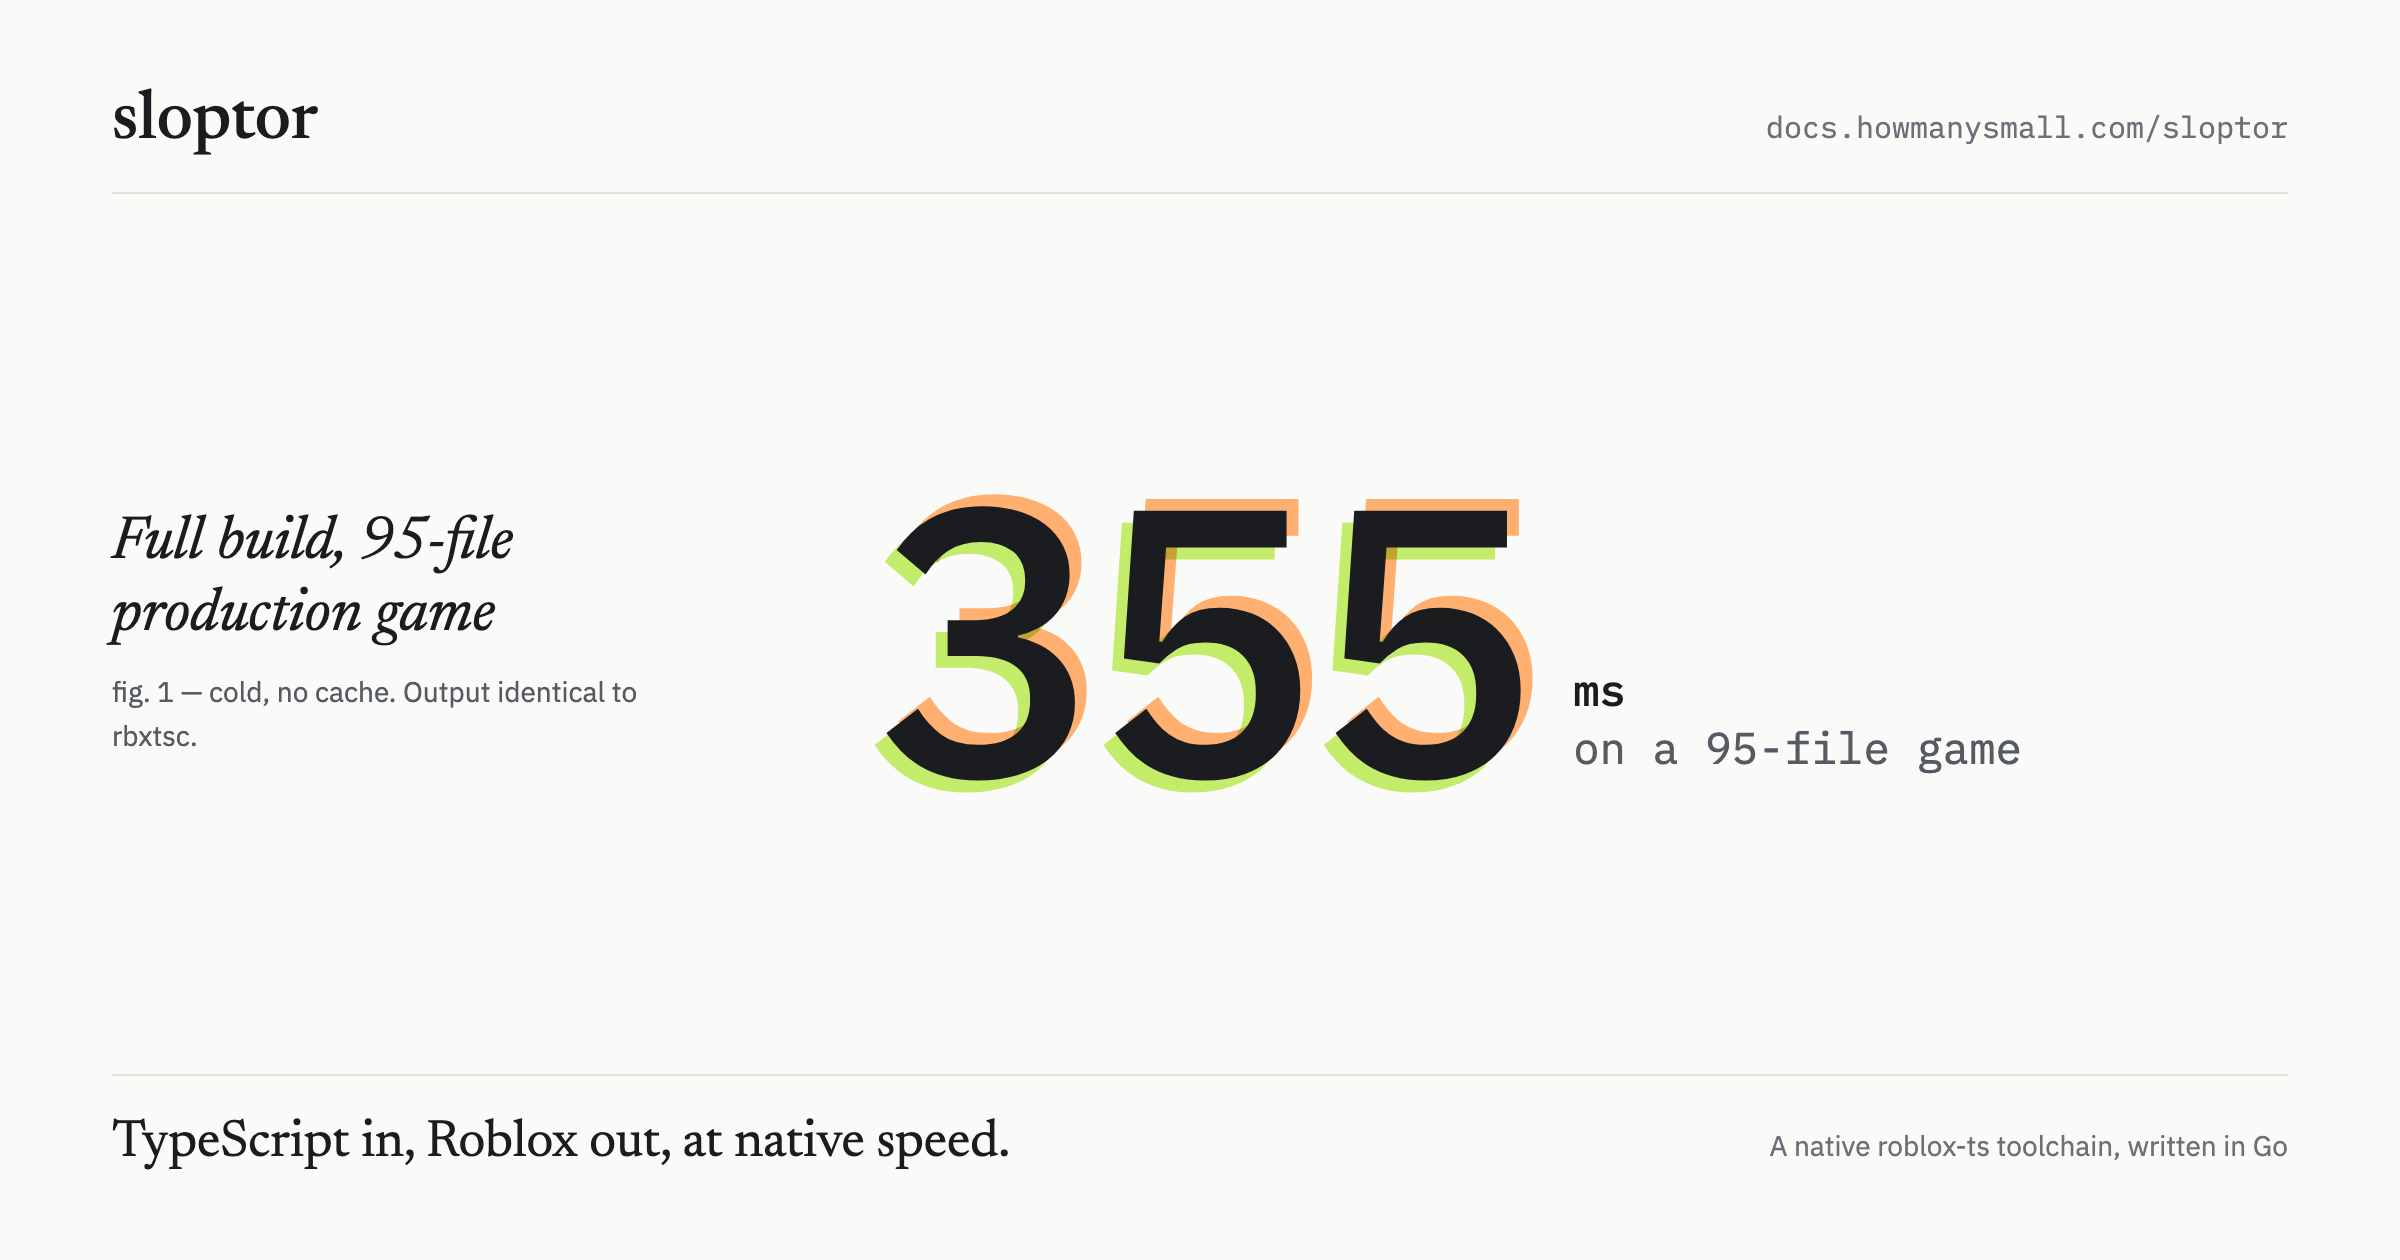
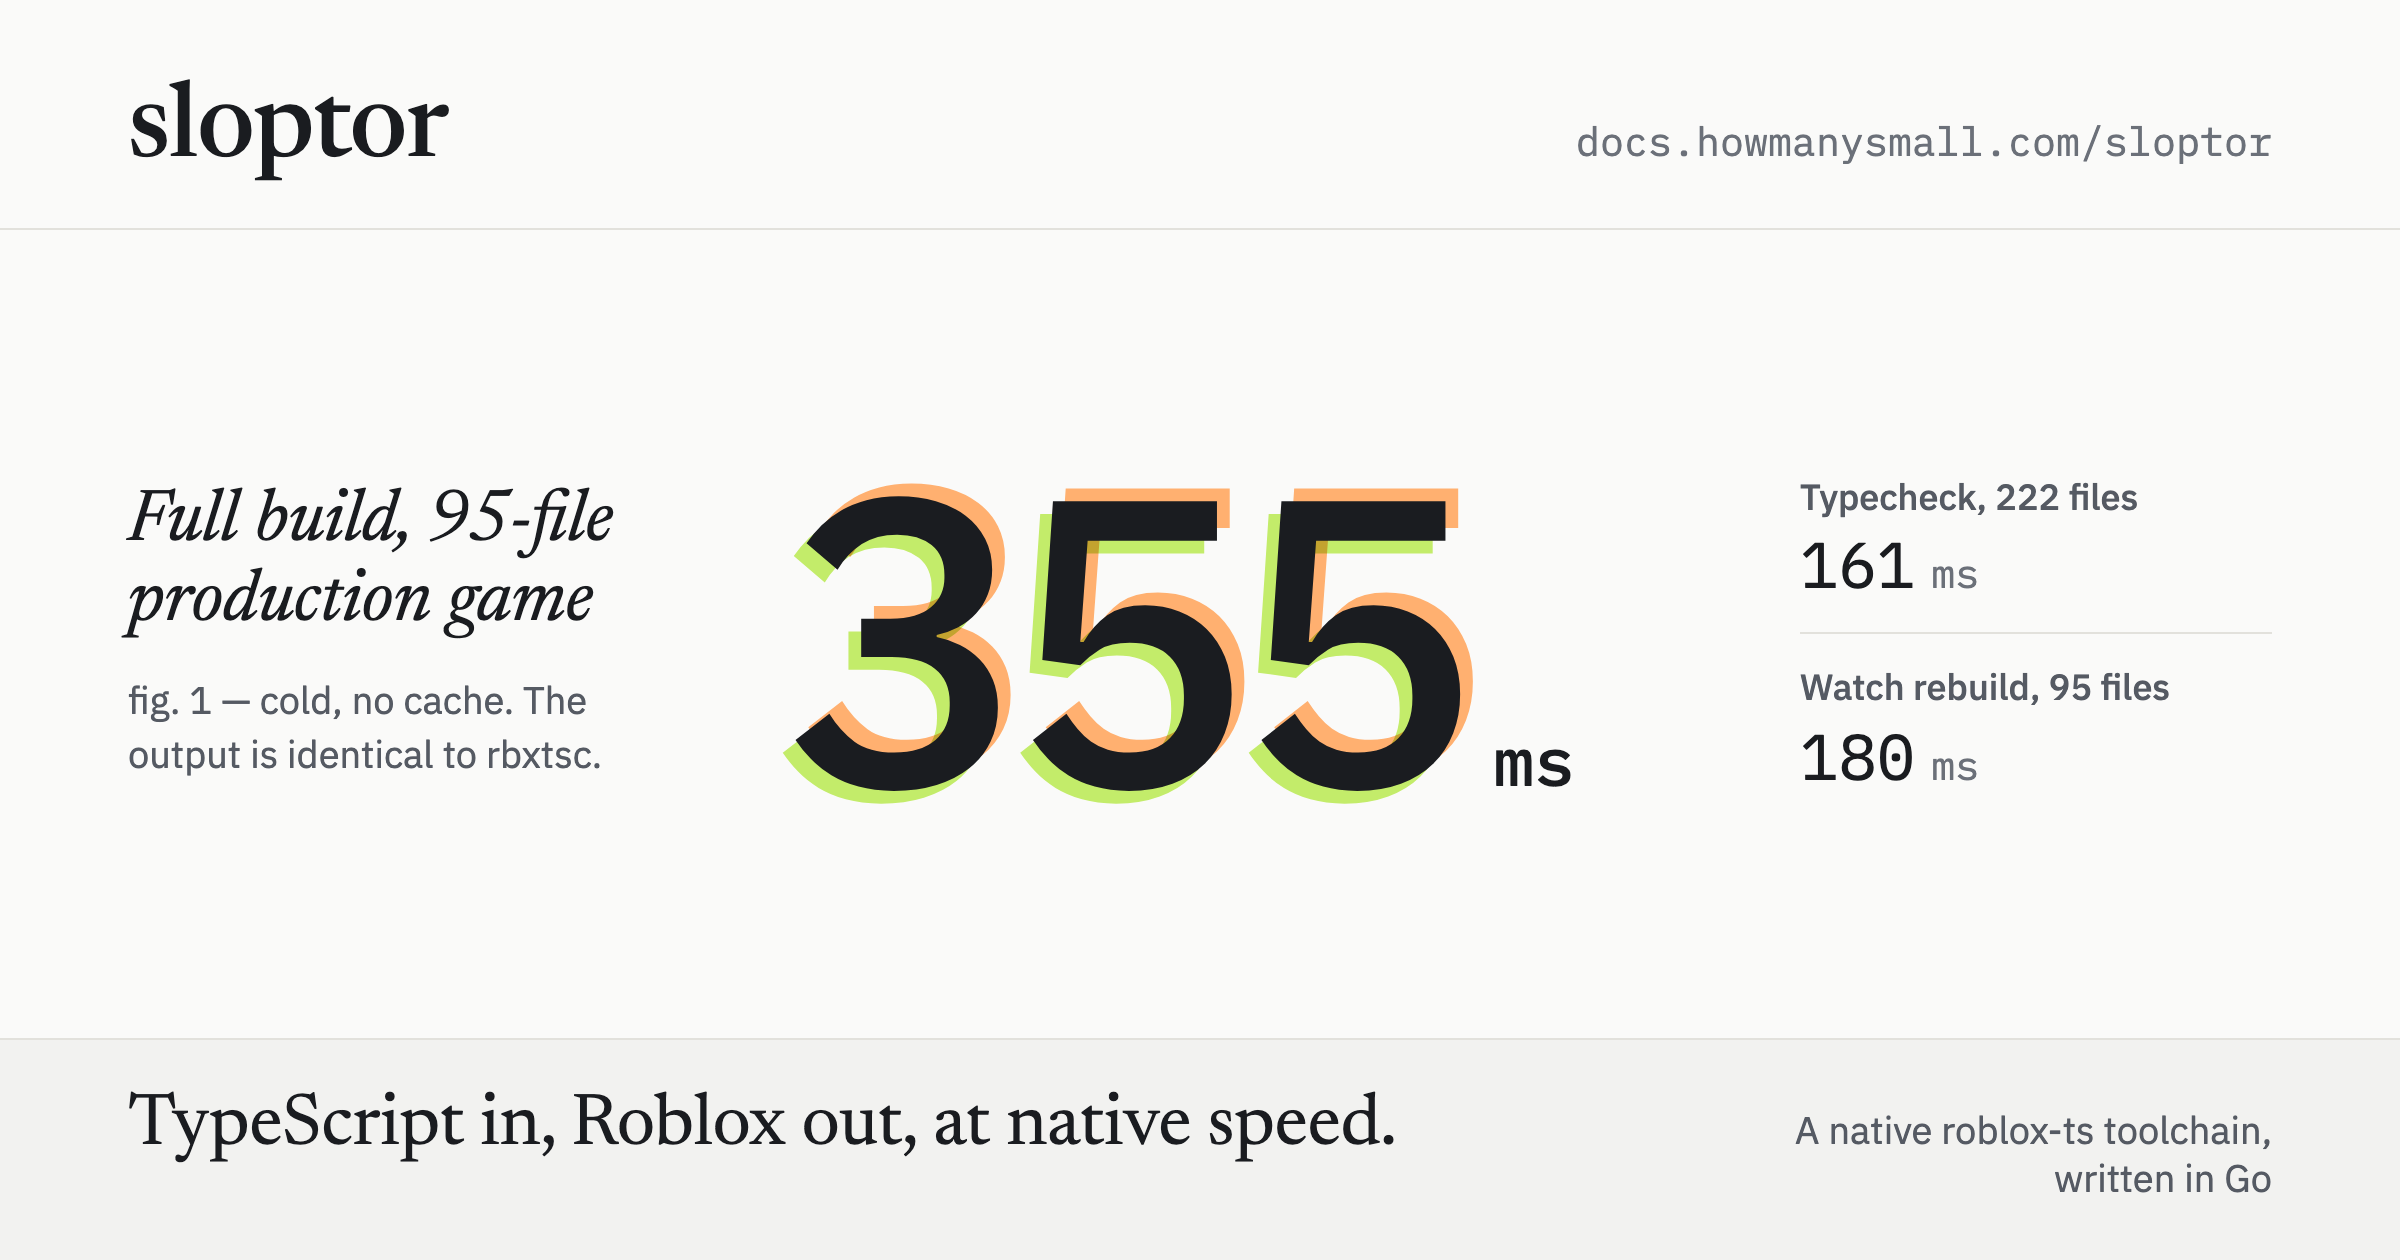
feat(og): add live benchmark readouts to sloptor card
The OG image now renders the same timings from src/data/benchmarks.ts
that the home page prints, so the card never drifts from the docs. The
layout grows a readout column and bumps type sizes for Discord's 40%
preview scale.

The component embed drops the section wrapper for a separator and text
display, adds a provider line above the title, and relabels the first
button to "Read the guide".

diff --git a/documentation/scripts/generate-og-image.ts b/documentation/scripts/generate-og-image.ts
@@ -4,16 +4,19 @@
  *
  * The card is a one-off build artefact, not part of `astro build`: rendering
  * needs Chromium, and the docs build should not. Rerun it by hand when the
- * card’s copy or the palette changes:
+ * card’s copy, the palette, or the benchmarks change:
  *
  *   node --run og
  *
  * The font files come from the same @fontsource packages the site loads, so the
- * card speaks in Newsreader and IBM Plex like every page does.
+ * card speaks in Newsreader and IBM Plex like every page does. The timings come
+ * from src/data/benchmarks.ts, the same numbers the home page prints.
  */
 import { readFile } from "node:fs/promises";
 import { fileURLToPath } from "node:url";
 import { chromium } from "@playwright/test";
+
+import { BENCHMARKS } from "../src/data/benchmarks.ts";
 
 const WIDTH = 1200;
 const HEIGHT = 630;
@@ -43,6 +46,16 @@ const [monoMedium, monoRegular, sans, serif, serifItalic] = await Promise.all([
 	dataUrl(FONTS.serif),
 	dataUrl(FONTS.serifItalic),
 ]);
+
+const fullBuild = BENCHMARKS.find(({ label }) => label === "Full build");
+if (fullBuild === undefined) throw new Error("BENCHMARKS has no full build to print.");
+
+const readouts = BENCHMARKS.filter((benchmark) => benchmark !== fullBuild)
+	.map(
+		({ files, label, milliseconds }) =>
+			`\t\t\t\t\t<div class="readout"><dt>${label}, ${files} files</dt><dd>${milliseconds}<small>ms</small></dd></div>`,
+	)
+	.join("\n");
 
 const html = `<!doctype html>
 <html lang="en">
@@ -86,11 +99,13 @@ const html = `<!doctype html>
 				--ink-2: #555a63;
 				--ink-3: #6b7079;
 				--rule: #e2e1dc;
+				--footnote: #f2f2f0;
 				--slime: #c3ec6a;
 				--tangerine: #ffb070;
 				--serif: "Newsreader", Georgia, serif;
 				--sans: "IBM Plex Sans", system-ui, sans-serif;
 				--mono: "IBM Plex Mono", ui-monospace, monospace;
+				--gutter: 64px;
 			}
 
 			* { box-sizing: border-box; }
@@ -107,79 +122,80 @@ const html = `<!doctype html>
 				color: var(--ink);
 			}
 
+			/* Discord shows the card at about 40% of its size, so nothing here is set
+			   below 18px: smaller type turns to grey fuzz in the preview. */
 			.card {
 				display: flex;
 				flex-direction: column;
 				width: 100%;
 				height: 100%;
-				padding: 44px 56px 40px;
 			}
 
 			.header {
 				display: flex;
 				align-items: baseline;
 				justify-content: space-between;
-				padding-bottom: 18px;
+				padding: 40px var(--gutter) 22px;
 				border-bottom: 1px solid var(--rule);
 			}
 
 			.wordmark {
 				font-family: var(--serif);
-				font-size: 34px;
+				font-size: 52px;
 				font-weight: 500;
 				line-height: 1;
-				color: var(--ink);
+				letter-spacing: -0.01em;
 			}
 
 			.address {
 				font-family: var(--mono);
-				font-size: 15px;
+				font-size: 20px;
 				line-height: 1;
 				color: var(--ink-3);
 			}
 
 			.main {
 				display: grid;
-				grid-template-columns: 300px minmax(0, 1fr);
+				grid-template-columns: 286px minmax(0, 1fr) 236px;
 				gap: 40px;
 				align-items: center;
 				flex: 1;
+				padding: 0 var(--gutter);
 			}
 
 			.note h2 {
-				margin: 0 0 10px;
+				margin: 0 0 14px;
 				font-family: var(--serif);
-				font-size: 30px;
+				font-size: 36px;
 				font-style: italic;
 				font-weight: 400;
-				line-height: 1.2;
-				color: var(--ink);
+				line-height: 1.12;
 			}
 
 			.note p {
 				margin: 0;
 				font-family: var(--sans);
-				font-size: 14px;
-				line-height: 1.55;
+				font-size: 19px;
+				line-height: 1.45;
 				color: var(--ink-2);
 			}
 
 			.figure {
 				display: flex;
-				gap: 20px;
-				align-items: flex-end;
-				justify-content: flex-start;
+				gap: 14px;
+				align-items: baseline;
+				margin: 0;
 			}
 
 			.overprint {
 				position: relative;
 				display: inline-block;
 				font-family: var(--mono);
-				font-size: 190px;
+				font-size: 204px;
 				font-weight: 500;
 				font-variant-numeric: tabular-nums;
 				line-height: 1;
-				letter-spacing: -0.02em;
+				letter-spacing: -0.04em;
 				color: var(--ink);
 				isolation: isolate;
 			}
@@ -204,17 +220,45 @@ const html = `<!doctype html>
 			}
 
 			.unit {
-				padding-bottom: 24px;
 				font-family: var(--mono);
-				font-size: 22px;
-				line-height: 1.3;
+				font-size: 34px;
+				font-weight: 500;
+				line-height: 1;
+			}
+
+			.readouts {
+				margin: 0;
+			}
+
+			.readout {
+				padding: 16px 0;
+			}
+
+			.readout + .readout {
+				border-top: 1px solid var(--rule);
+			}
+
+			.readout dt {
+				margin-bottom: 6px;
+				font-family: var(--sans);
+				font-size: 18px;
+				font-weight: 500;
+				line-height: 1.2;
 				color: var(--ink-2);
 			}
 
-			.unit strong {
-				display: block;
-				font-weight: 500;
-				color: var(--ink);
+			.readout dd {
+				margin: 0;
+				font-family: var(--mono);
+				font-size: 32px;
+				font-variant-numeric: tabular-nums;
+				line-height: 1.1;
+			}
+
+			.readout dd small {
+				margin-left: 8px;
+				font-size: 20px;
+				color: var(--ink-3);
 			}
 
 			.footer {
@@ -222,22 +266,22 @@ const html = `<!doctype html>
 				align-items: baseline;
 				justify-content: space-between;
 				gap: 40px;
-				padding-top: 18px;
+				padding: 24px var(--gutter) 28px;
+				background: var(--footnote);
 				border-top: 1px solid var(--rule);
 			}
 
 			.tagline {
 				font-family: var(--serif);
-				font-size: 26px;
-				line-height: 1.3;
-				color: var(--ink);
+				font-size: 36px;
+				line-height: 1.15;
 			}
 
 			.meta {
 				font-family: var(--sans);
-				font-size: 14px;
-				line-height: 1.4;
-				color: var(--ink-3);
+				font-size: 19px;
+				line-height: 1.3;
+				color: var(--ink-2);
 				text-align: right;
 			}
 		</style>
@@ -250,17 +294,20 @@ const html = `<!doctype html>
 			</header>
 			<main class="main">
 				<section class="note">
-					<h2>Full build, 95-file production game</h2>
-					<p>fig. 1 — cold, no cache. Output identical to rbxtsc.</p>
+					<h2>${fullBuild.label}, ${fullBuild.files}-file production game</h2>
+					<p>fig. 1 — cold, no cache. The output is identical to rbxtsc.</p>
 				</section>
 				<figure class="figure">
-					<span class="overprint" data-value="355">355</span>
-					<figcaption class="unit"><strong>ms</strong>on a 95-file game</figcaption>
+					<span class="overprint" data-value="${fullBuild.milliseconds}">${fullBuild.milliseconds}</span>
+					<span class="unit">ms</span>
 				</figure>
+				<dl class="readouts">
+${readouts}
+				</dl>
 			</main>
 			<footer class="footer">
 				<span class="tagline">TypeScript in, Roblox out, at native speed.</span>
-				<span class="meta">A native roblox-ts toolchain, written in Go</span>
+				<span class="meta">A native roblox-ts toolchain,<br />written in Go</span>
 			</footer>
 		</div>
 	</body>

diff --git a/documentation/src/utilities/discord-component-embed.ts b/documentation/src/utilities/discord-component-embed.ts
@@ -4,8 +4,8 @@
  *
  * Discord caps the payload at 3,000 bytes and rejects the whole embed when a
  * component carries a key it does not know, so the shape here is deliberately
- * smaller than what Components V2 allows: a container, one section with the
- * page title and description, the card image, and three link buttons.
+ * smaller than what Components V2 allows: a container holding the page title
+ * and description, the card image, a divider, and three link buttons.
  */
 
 /** Brine, the focus color, as the decimal integer `accent_color` wants. */
@@ -17,12 +17,15 @@ export const DISCORD_EMBED_LIMIT_BYTES = 3000;
 const MAX_TITLE_LENGTH = 100;
 const MAX_DESCRIPTION_LENGTH = 280;
 
+/** The small grey line above the title, standing in for an OG card's site name. */
+const PROVIDER_LINE = "-# sloptor docs";
+
 const COMPONENT_TYPE = {
 	actionRow: 1,
 	button: 2,
 	container: 17,
 	mediaGallery: 12,
-	section: 9,
+	separator: 14,
 	textDisplay: 10,
 } as const;
 
@@ -48,9 +51,7 @@ interface DiscordMediaGallery {
 	readonly type: number;
 }
 
-interface DiscordSection {
-	readonly accessory: DiscordButton;
-	readonly components: ReadonlyArray<DiscordTextDisplay>;
+interface DiscordSeparator {
 	readonly type: number;
 }
 
@@ -59,7 +60,7 @@ interface DiscordTextDisplay {
 	readonly type: number;
 }
 
-type DiscordComponent = DiscordActionRow | DiscordMediaGallery | DiscordSection;
+type DiscordComponent = DiscordActionRow | DiscordMediaGallery | DiscordSeparator | DiscordTextDisplay;
 
 export interface DiscordComponentEmbedOptions {
 	readonly commandsUrl: string;
@@ -75,7 +76,7 @@ export interface DiscordComponentEmbedOptions {
 export function createDiscordComponentEmbed(options: DiscordComponentEmbedOptions): string {
 	const title = truncate(escapeMarkdown(options.title.trim()), MAX_TITLE_LENGTH);
 	const pageUrl = escapeMarkdownUrl(options.pageUrl);
-	const heading = `# **[${title}](${pageUrl})**`;
+	const heading = `${PROVIDER_LINE}\n## [${title}](${pageUrl})`;
 
 	let description = truncate(options.description?.trim() ?? "", MAX_DESCRIPTION_LENGTH);
 	let payload = buildPayload(heading, description, options);
@@ -94,16 +95,7 @@ function buildPayload(heading: string, description: string, options: DiscordComp
 	const content = description.length === 0 ? heading : `${heading}\n${description}`;
 
 	const components: ReadonlyArray<DiscordComponent> = [
-		{
-			accessory: {
-				label: "Open",
-				style: BUTTON_STYLE_LINK,
-				type: COMPONENT_TYPE.button,
-				url: options.pageUrl,
-			},
-			components: [{ content, type: COMPONENT_TYPE.textDisplay }],
-			type: COMPONENT_TYPE.section,
-		},
+		{ content, type: COMPONENT_TYPE.textDisplay },
 		{
 			items: [
 				{
@@ -113,9 +105,15 @@ function buildPayload(heading: string, description: string, options: DiscordComp
 			],
 			type: COMPONENT_TYPE.mediaGallery,
 		},
+		{ type: COMPONENT_TYPE.separator },
 		{
 			components: [
-				{ label: "Guide", style: BUTTON_STYLE_LINK, type: COMPONENT_TYPE.button, url: options.guideUrl },
+				{
+					label: "Read the guide",
+					style: BUTTON_STYLE_LINK,
+					type: COMPONENT_TYPE.button,
+					url: options.guideUrl,
+				},
 				{
 					label: "Commands",
 					style: BUTTON_STYLE_LINK,
